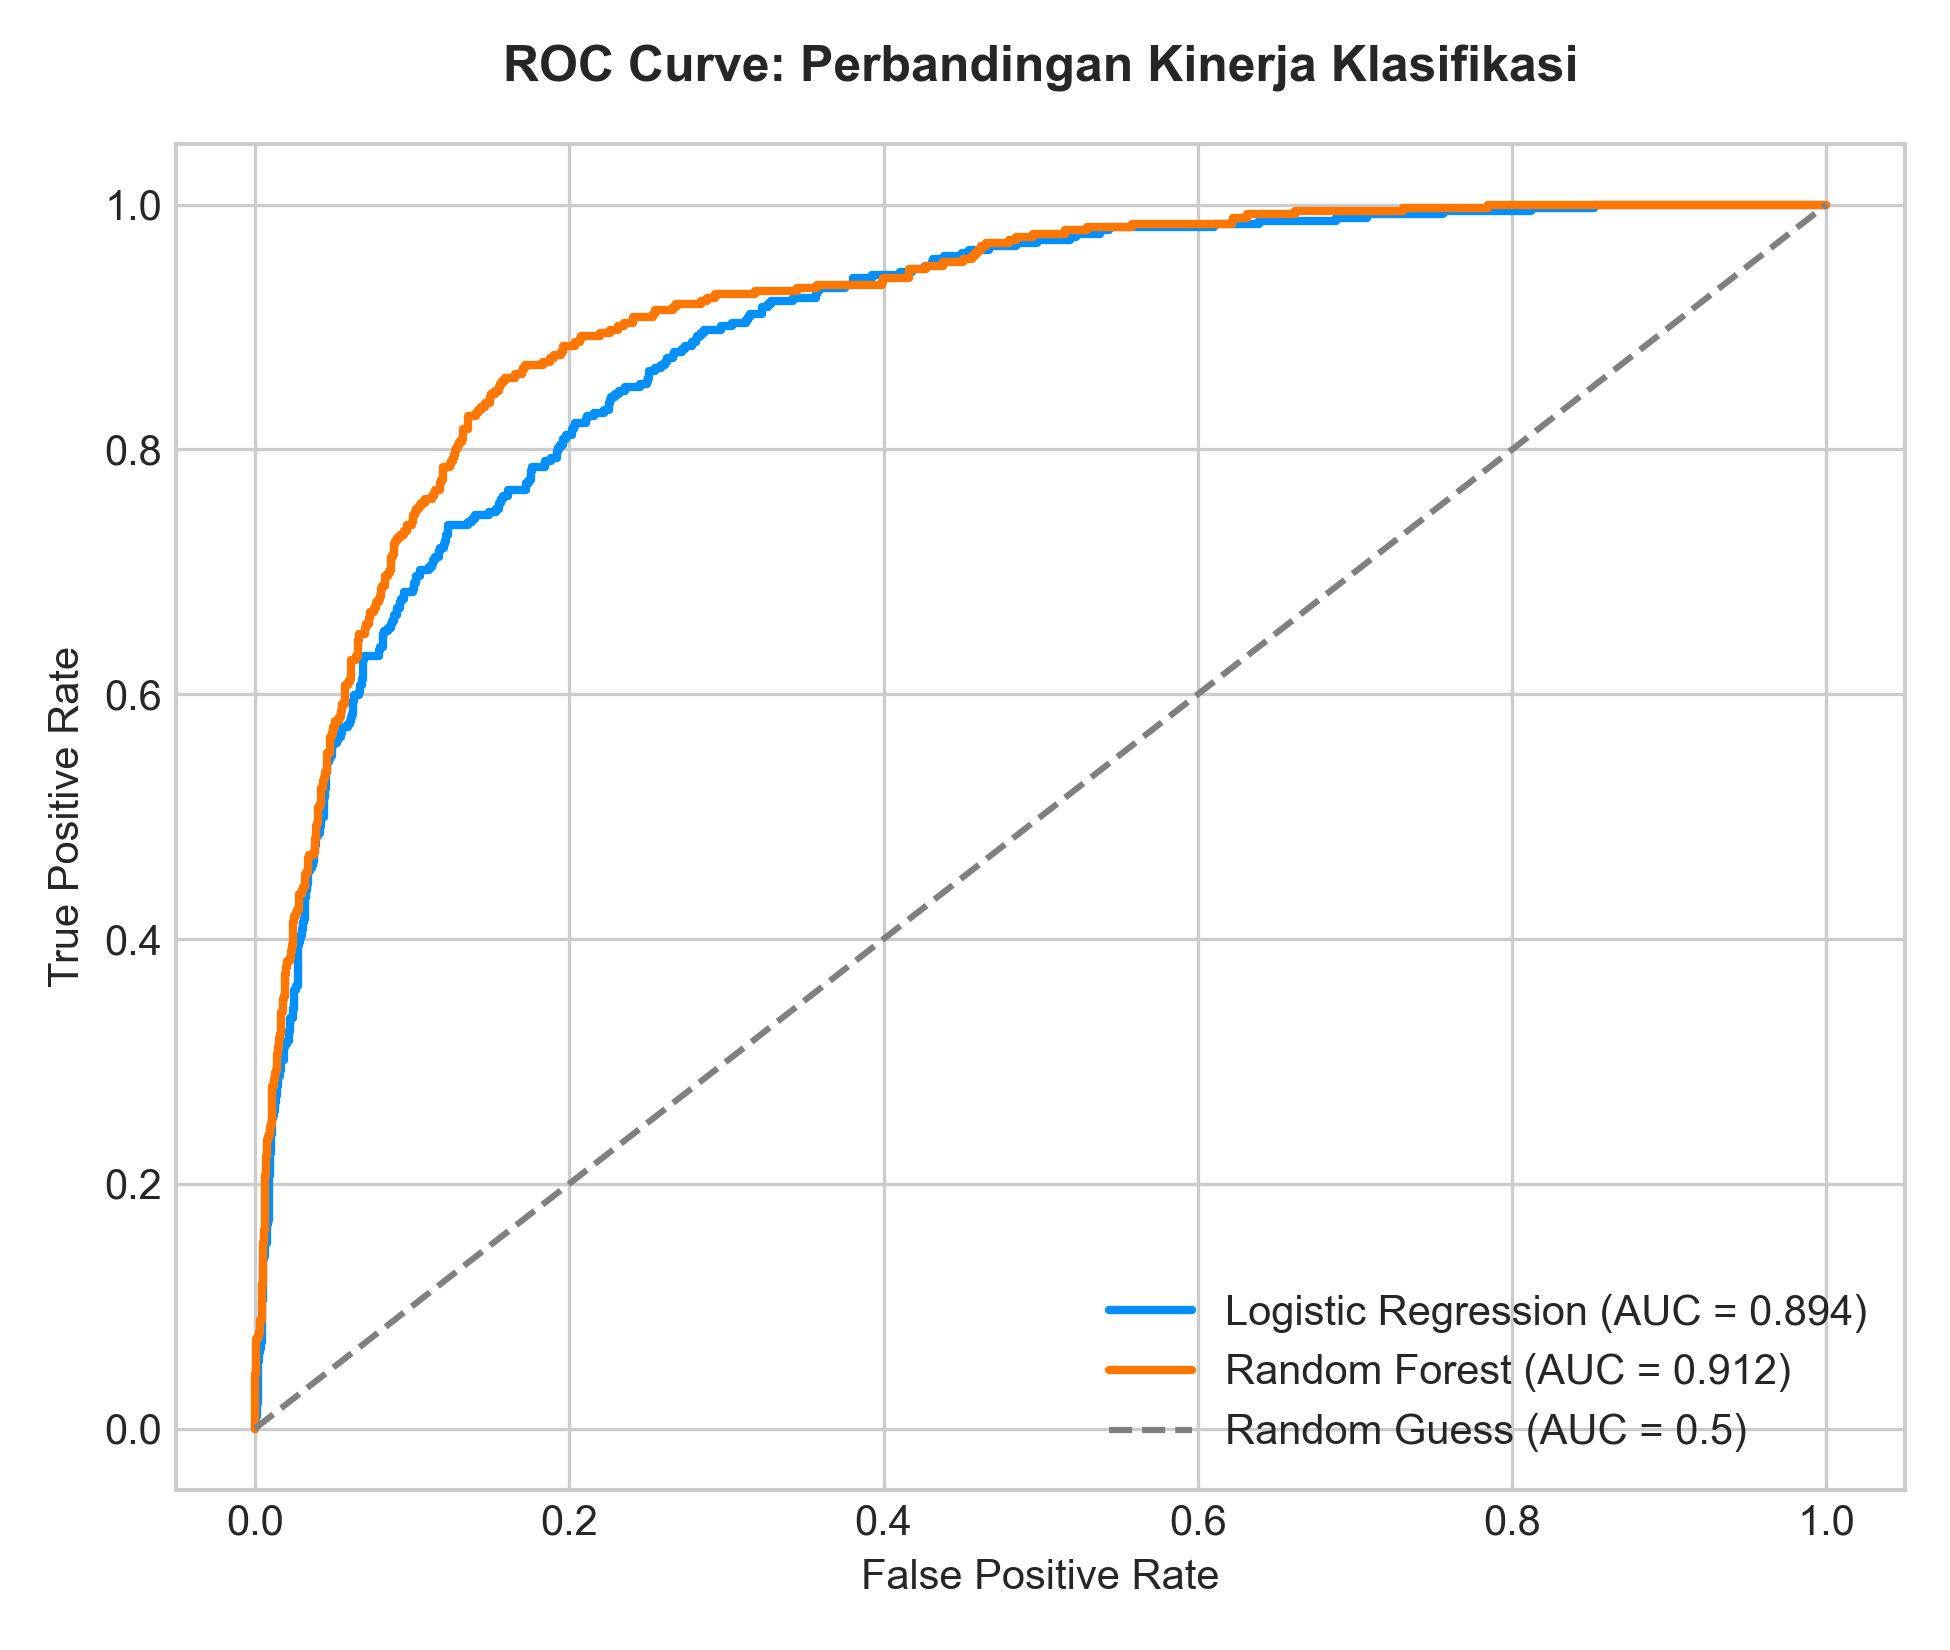
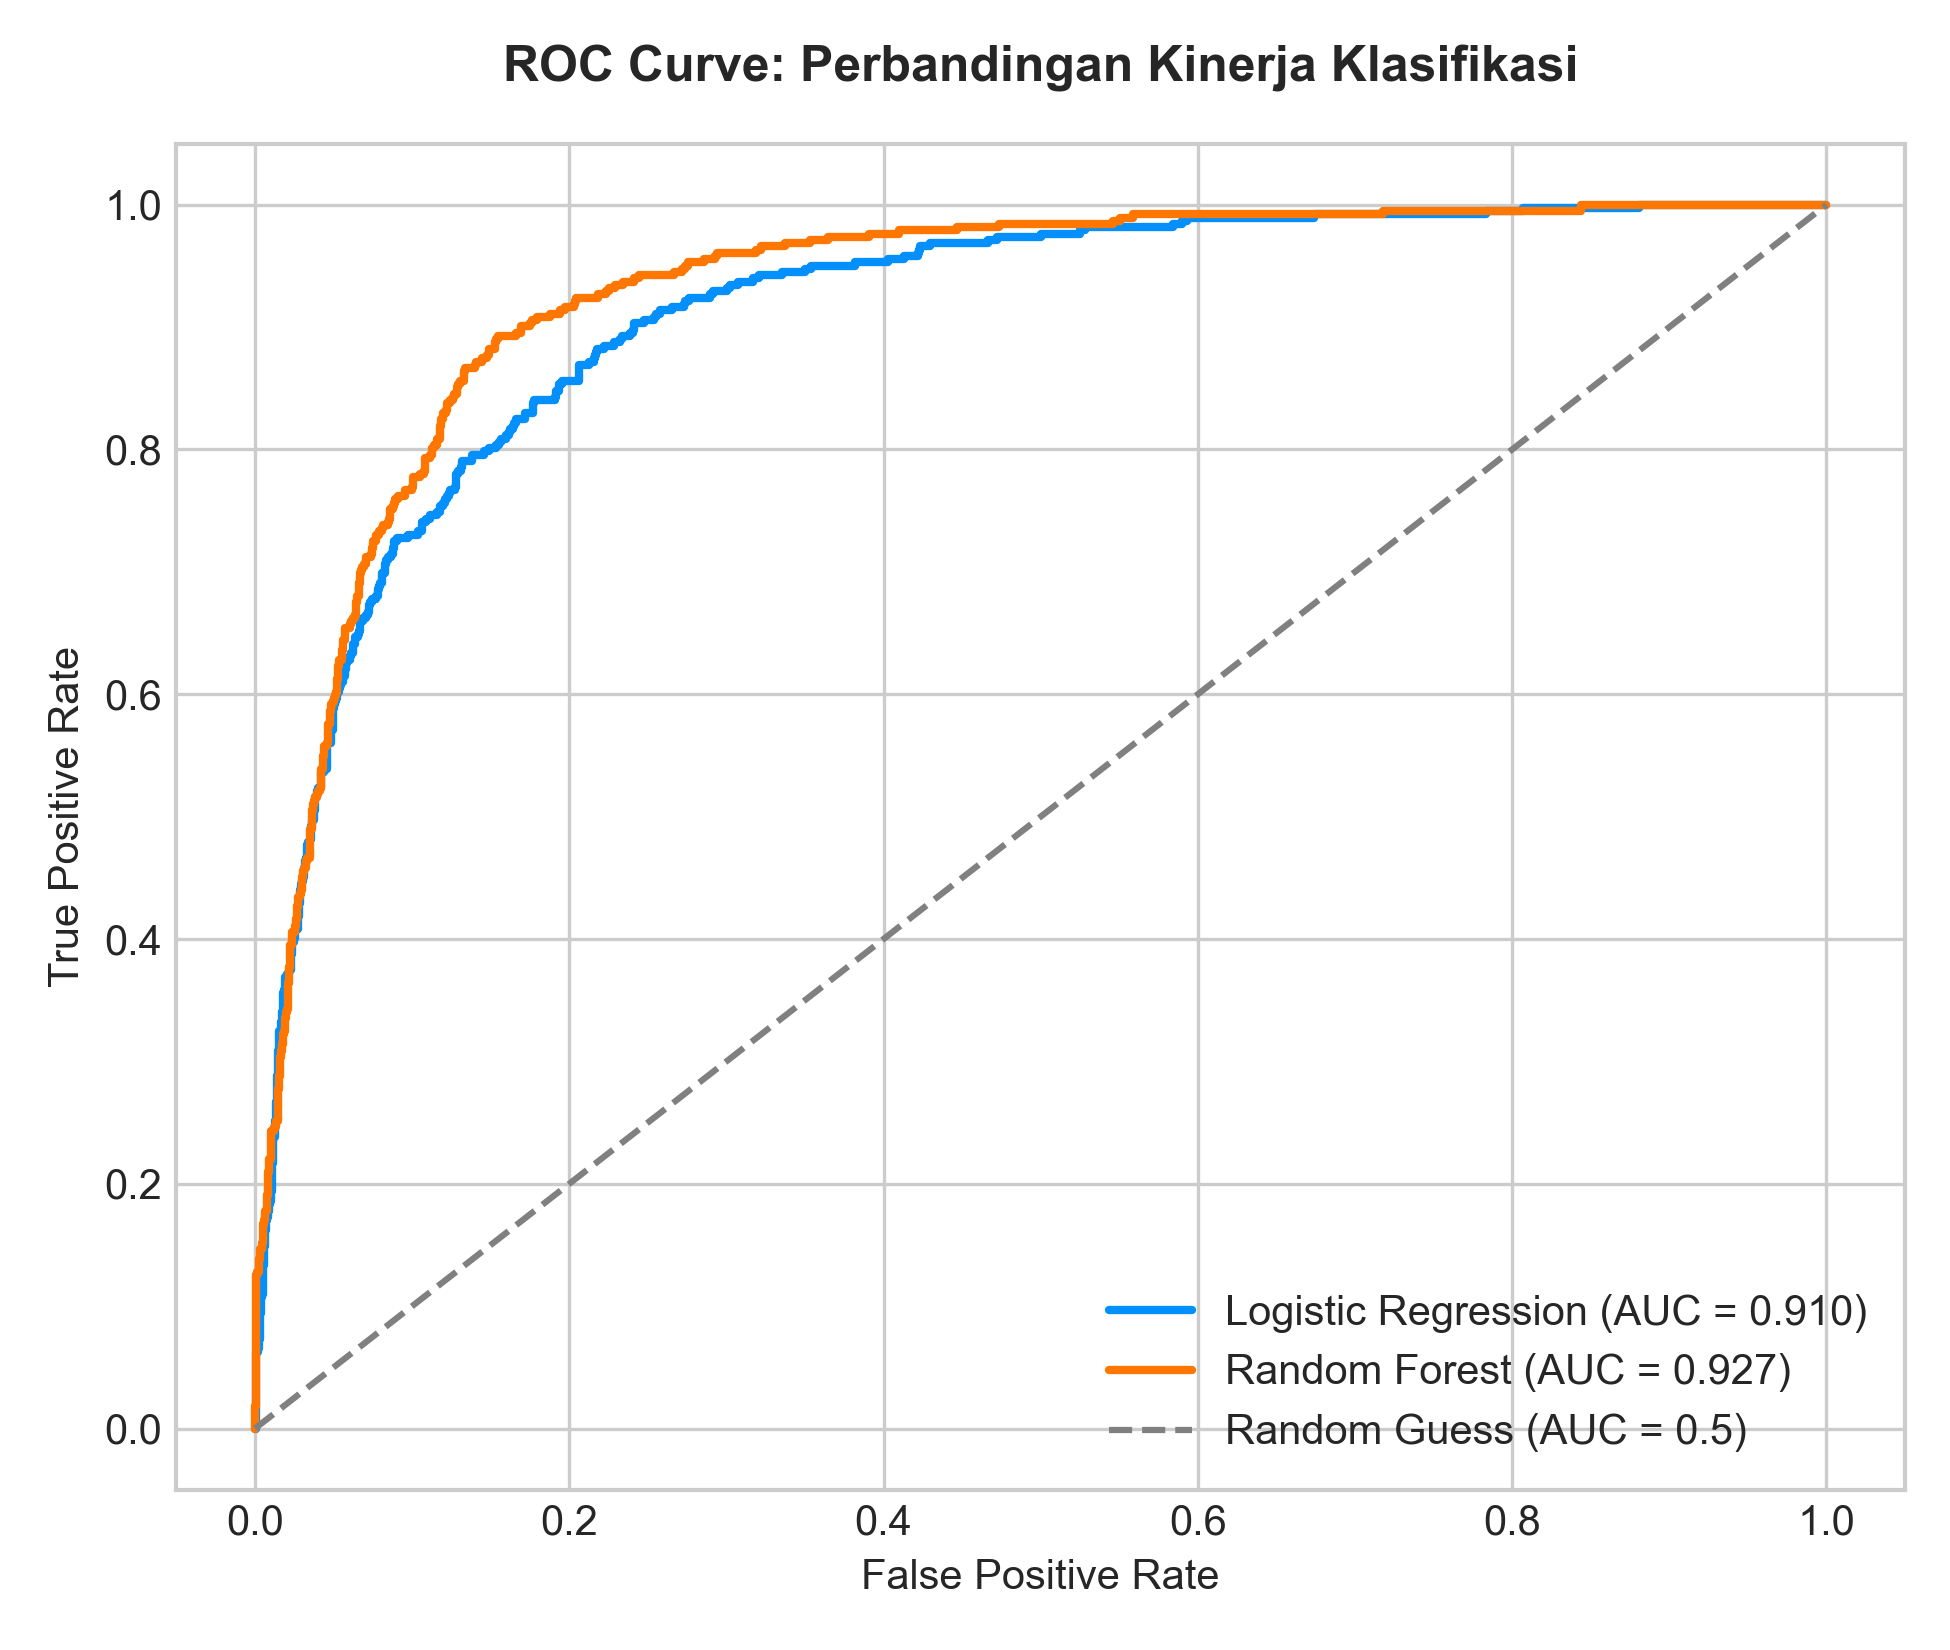
add process to clean duplicate data from dataset

diff --git a/src/main.py b/src/main.py
@@ -23,7 +23,8 @@ from sklearn.metrics import (
 warnings.filterwarnings("ignore")
 
 def main():
-    print("Gilak jago banget gw")
+    print("PREDIKSI ONLINE SHOPPERS PURCHASING INTENTION")
+    print("Dataset: UCI Machine Learning Repository")
 
 # Prepare path untuk directory
 script_dir = os.path.dirname(os.path.abspath(__file__))
@@ -32,16 +33,24 @@ data_path = os.path.join(project_root, "dataset", "online_shoppers_intention.csv
 output_dir = os.path.join(project_root, "output")
 os.makedirs(output_dir, exist_ok=True)
 
-print("Loading dataset dan checking dataset...")
+print("\nLoading dataset dan checking dataset...")
 if not os.path.exists(data_path):
     raise FileNotFoundError(f"Dataset tidak ditemukan di path: {data_path}")
 
 df = pd.read_csv(data_path)
-print(f"Dimension dataset: {df.shape[0]} baris x {df.shape[1]} kolom")
+total_awal = len(df)
+print(f"Dimensi Dataset Mentah: {total_awal} baris x {df.shape[1]} kolom")
 
 # check for missing values
-null_count = df.isnull().sum().sum()
-print(f"Total missing values: {null_count}")
+null_counts = df.isnull().sum().sum()
+print(f"Total missing values: {null_counts}")
+
+# cleaning
+jml_duplikat = df.duplicated().sum()
+print(f"Data Duplikat Ditemukan: {jml_duplikat} baris ({jml_duplikat/total_awal*100:.2f}%)")
+print("Membersihkan baris duplikat untuk mencegah data leakage dan model bias...")
+df = df.drop_duplicates().reset_index(drop=True)
+print(f"Dimensi Dataset Setelah De-duplikasi: {len(df)} baris")
 
 df['Revenue_Num'] = df['Revenue'].astype(int)
 
